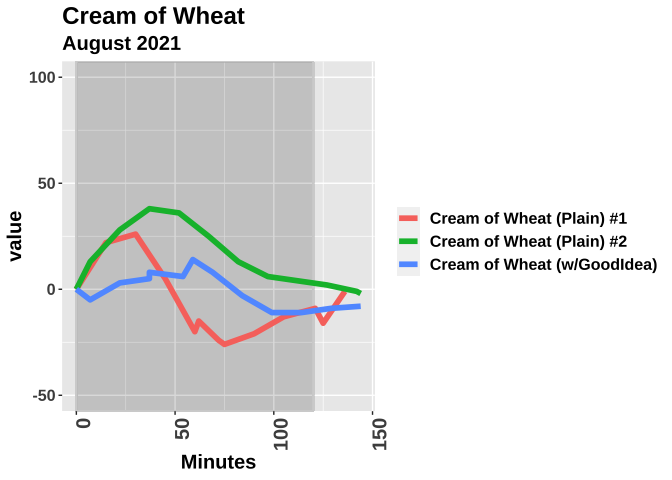
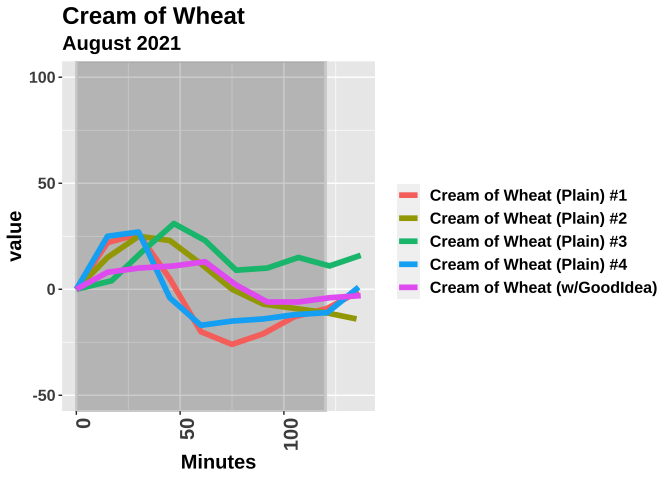
Updated GoodIdea analysis.
(cherry picked from commit d620b15ca6b55992e31701fcaa10a47cd40f93c7)

diff --git a/TasterReport-GoodIdea.md b/TasterReport-GoodIdea.md
@@ -1,7 +1,7 @@
 Tastermonial Food Comparisons: Goodidea Drink
 ================
 Richard Sprague
-2021-09-03
+2021-10-05
 
 # Good Idea®
 
@@ -47,6 +47,9 @@ carbohydrate load. Good Idea®, on the other hand, gave no such crash.
 meal
 </th>
 <th style="text-align:right;">
+iAUC
+</th>
+<th style="text-align:right;">
 auc
 </th>
 <th style="text-align:right;">
@@ -66,7 +69,10 @@ rise
 Cream of Wheat (Plain) #1
 </td>
 <td style="text-align:right;">
--587.0
+765.000
+</td>
+<td style="text-align:right;">
+-558.5
 </td>
 <td style="text-align:right;">
 73
@@ -75,7 +81,27 @@ Cream of Wheat (Plain) #1
 125
 </td>
 <td style="text-align:right;">
--16
+-1
+</td>
+</tr>
+<tr>
+<td style="text-align:left;">
+Cream of Wheat (Plain) #4
+</td>
+<td style="text-align:right;">
+754.496
+</td>
+<td style="text-align:right;">
+-319.0
+</td>
+<td style="text-align:right;">
+84
+</td>
+<td style="text-align:right;">
+128
+</td>
+<td style="text-align:right;">
+1
 </td>
 </tr>
 <tr>
@@ -83,16 +109,19 @@ Cream of Wheat (Plain) #1
 Cream of Wheat (w/GoodIdea)
 </td>
 <td style="text-align:right;">
-516.5
+669.750
+</td>
+<td style="text-align:right;">
+418.5
 </td>
 <td style="text-align:right;">
 83
 </td>
 <td style="text-align:right;">
-108
+102
 </td>
 <td style="text-align:right;">
-19
+-3
 </td>
 </tr>
 <tr>
@@ -100,16 +129,39 @@ Cream of Wheat (w/GoodIdea)
 Cream of Wheat (Plain) #2
 </td>
 <td style="text-align:right;">
-540.5
+1125.000
 </td>
 <td style="text-align:right;">
-85
+615.0
+</td>
+<td style="text-align:right;">
+86
 </td>
 <td style="text-align:right;">
 125
 </td>
 <td style="text-align:right;">
--15
+-14
+</td>
+</tr>
+<tr>
+<td style="text-align:left;">
+Cream of Wheat (Plain) #3
+</td>
+<td style="text-align:right;">
+1939.000
+</td>
+<td style="text-align:right;">
+1939.0
+</td>
+<td style="text-align:right;">
+80
+</td>
+<td style="text-align:right;">
+111
+</td>
+<td style="text-align:right;">
+16
 </td>
 </tr>
 </tbody>
